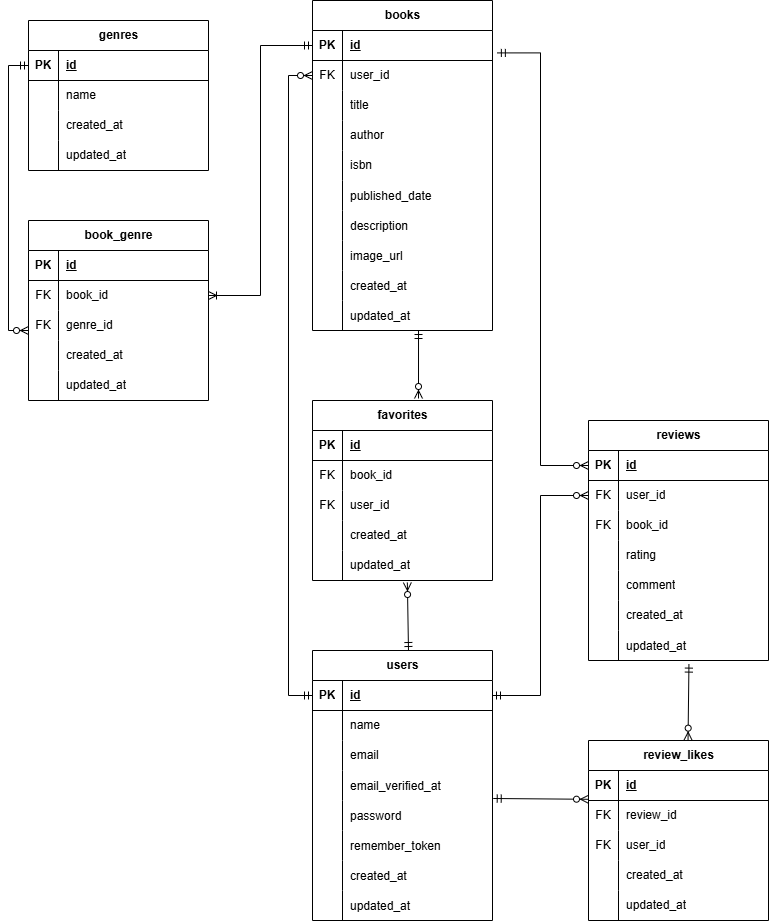
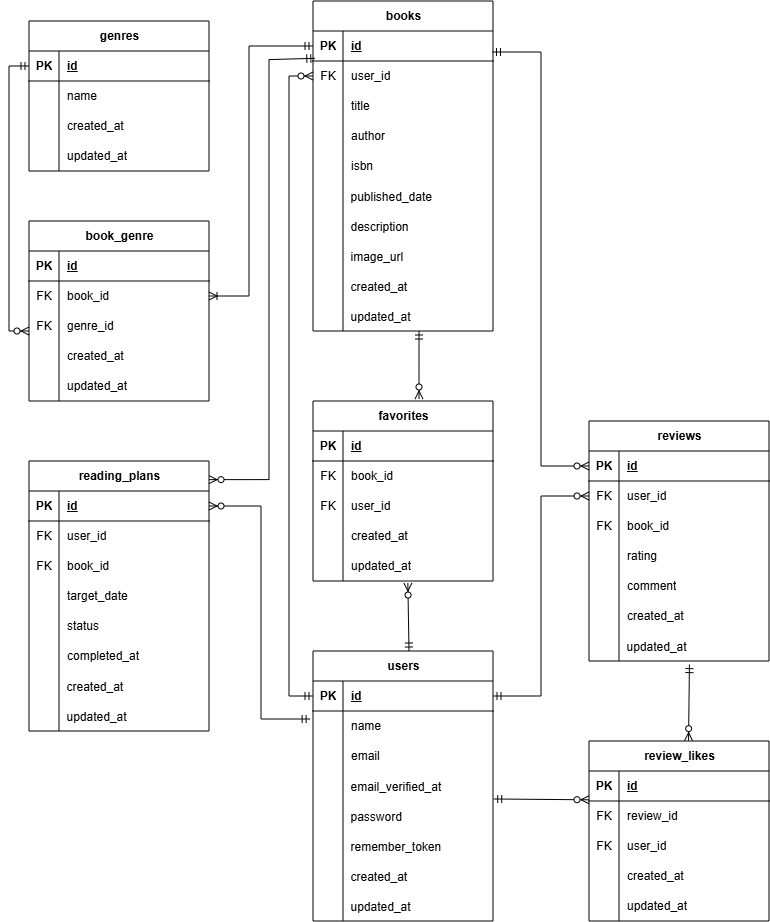
docs: READMEとER図を更新

diff --git a/README.md b/README.md
@@ -1,51 +1,200 @@
 # BookShelf 書籍レビューアプリ
 
+BookShelfは、ユーザーが書籍を登録・閲覧し、レビューや読書計画を管理できる書籍レビューアプリです。
+ジャンル分類、書籍のお気に入り登録、レビューへのいいね、ランキング表示、キーワード検索・ジャンル別絞り込み、ISBN検索による書籍情報の自動取得、読書レポート、リマインダー通知などの機能を備えています。
+また、外部アプリケーション向けに、Laravel Sanctumによる認証機能を備えたAPI（JSON）も提供しています。
+
 ## 作成者
+
 竹村 麻紀
 
-## 概要
-BookShelfは、ユーザーが書籍を登録・閲覧し、レビューを投稿できる書籍レビューアプリです。
-ジャンルによる分類、レビューへのいいね、ランキング表示などの機能を備えています。
-また、外部アプリケーション向けの公開API（JSON）も提供しています。
-
 ## 使用技術
+
 ### バックエンド
+
 - PHP 8.5
 - Laravel 10.x
-- Laravel Fortify
+- Laravel Fortify（認証）
+- Laravel Sanctum（認証）
 
 ### データベース
+
 - MySQL 8.4
 
 ### フロントエンド
+
 - Vite
 - Tailwind CSS ^3.4.0
 - @tailwindcss/forms
 - Alpine.js
 
+### 外部API
+
+- Google Books API
+
 ### 開発環境
+
 - Docker
 - Laravel Sail
 - phpMyAdmin
 
+## ER図
+
+![ER図](docs/er-diagram.png)
+
+## 開発環境URL
+
+- http://localhost
+
 ## 動作環境
+
 - Docker
 - Docker Compose
 > ※Windowsの場合はWSL2の利用を推奨します。
 
 ## 環境構築手順
+
 ### 1. リポジトリをクローン
+
+以下のコマンドで任意のディレクトリにリポジトリをクローンします。
 
 ```bash
 git clone https://github.com/maki-takemura/bookshelf-app.git
 cd bookshelf-app
 ```
 
-＜追記予定＞
+### 2. envファイルの準備
 
-## 開発環境URL
+`.env.example`をコピーして`.env`を作成します。
 
-- http://localhost
+```bash
+cp .env.example .env
+```
+
+`.env`ファイル内の以下のDB接続情報を確認・設定します。
+Sailを使用するため、以下のように変更してください。
+
+```bash
+DB_CONNECTION=mysql
+DB_HOST=mysql
+DB_PORT=3306
+DB_DATABASE=laravel
+DB_USERNAME=sail
+DB_PASSWORD=password
+```
+
+Google Books APIとの実通信を確認する場合は、Google Books APIキーを取得し、`.env`に以下の環境変数を設定してください。
+
+```bash
+GOOGLE_BOOKS_API_KEY=取得したAPIキー
+```
+※Google Books APIとの実通信を行わない場合、APIキーの設定は不要です。
+
+※APIキーの取得方法は[Google Books APIの公式ドキュメント](https://developers.google.com/books/docs/v1/using)を参照してください。
+
+### 3. Composer依存パッケージのインストール
+
+初回セットアップ時は`vendor`ディレクトリが存在しないため、以下のDockerコマンドで`composer install`を実行します。
+
+```bash
+docker run --rm \
+    -u "$(id -u):$(id -g)" \
+    -v "$(pwd):/var/www/html" \
+    -w /var/www/html \
+    composer:latest \
+    composer install --ignore-platform-reqs
+```
+
+### 4. Laravel Sailの起動
+
+以下のコマンドでDockerコンテナを起動します。
+
+```bash
+./vendor/bin/sail up -d
+```
+
+> ※以降の手順で`sail`コマンドを使用するため、以下のエイリアスを設定してください。
+
+- Bash（Linux）の場合:
+```bash
+echo "alias sail='[ -f sail ] && bash sail || bash vendor/bin/sail'" >> ~/.bashrc
+exec $SHELL
+```
+
+- Zsh（Mac）の場合:
+```bash
+echo "alias sail='[ -f sail ] && bash sail || bash vendor/bin/sail'" >> ~/.zshrc
+exec $SHELL
+```
+
+### 5. アプリケーションキーの作成
+
+以下のコマンドでアプリケーションキーを作成します。
+
+```bash
+sail artisan key:generate
+```
+
+### 6. データベースのマイグレーションと初期データ投入
+
+以下のコマンドでテーブルを作成し、ダミーデータを投入します。
+
+```bash
+sail artisan migrate:fresh --seed
+```
+
+#### マイグレーション実行時にデータベースのアクセスエラーが発生した場合
+
+既存のDockerボリュームに以前のデータベース設定が残っている場合、マイグレーション実行時に`Access denied`エラーが発生することがあります。
+
+その場合は、以下のコマンドを順に実行してください。
+
+> ※`sail down -v`を実行すると、本プロジェクトのDockerボリュームと保存されているデータベースのデータが削除されます。
+
+```bash
+sail down -v
+sail up -d
+```
+
+MySQLコンテナが起動するまで30秒程度待ってから、再度マイグレーションと初期データ投入を実行してください。
+
+```bash
+sail artisan migrate:fresh --seed
+```
+
+### 7. フロントエンド環境の準備
+
+以下のコマンドでフロントエンドの依存パッケージをインストールし、開発サーバーを起動します。
+
+```bash
+sail npm install
+sail npm run dev
+```
+
+※`npm run dev`は開発中起動したままにする必要があります。別ターミナルで実行してください。
+
+### 8. アプリケーションへのアクセス
+
+ブラウザで http://localhost にアクセスします。
+
+### 9. テストユーザーでのログイン
+
+Seederにより、動作確認用のユーザーが作成されます。
+
+| 名前 | メールアドレス | パスワード |
+| --- | --- | --- |
+| 山田太郎 | `yamada@example.com` | `password` |
+
+ブラウザで http://localhost/login にアクセスし、上記の情報でログインしてください。
+
+### 10. Google Books APIとの実通信確認
+
+Google Books APIキーを設定した場合は、以下の手順で実通信を確認できます。
+
+1. アプリケーションを起動する
+2. ISBN検索画面を開く
+3. 存在するISBN（例：`9784297132347`）を入力する
+4. Google Books APIから取得した書籍情報が表示されることを確認する
 
 ## テスト実行手順
 本プロジェクトではPHPUnitを使用してテストを実施します。
@@ -66,15 +215,82 @@ sail artisan test
 sail artisan test --coverage
 ```
 
-## ER図
+### Google Books APIを利用するテストについて
 
-![ER図](docs/er-diagram.png)
+Google Books API連携のFeatureテストでは、`Http::fake()`を利用して外部APIとの通信をモック化しています。
+
+そのため、Featureテストの実行にGoogle Books APIキーの設定は不要です。
+
+## 定期実行処理の確認
+
+読書計画の期限切れ更新およびリマインダー通知は、毎日20時に実行されるようスケジュールされています。
+
+### 通知スケジュールの登録確認
+
+以下のコマンドで、スケジュールの登録内容を確認できます。
+
+```bash
+sail artisan schedule:list
+```
+
+### 期限切れ更新・リマインダー通知の手動実行
+
+以下のコマンドで、期限切れ更新およびリマインダー通知の処理を手動実行できます。
+
+```bash
+sail artisan app:process-reading-plan-reminders
+```
+
+Seederには通知対象となる読書計画が含まれています。手動実行後、山田太郎のアカウントでログインすると、通知一覧画面で作成された通知を確認できます。
+
+### 任意の時間を指定した通知の動作確認
+
+通知を任意の時間に実行して確認する場合は、`app/Console/Kernel.php`の通知スケジュール実行時刻を現在時刻より後の任意の時刻に変更します。
+
+続けて、以下のコマンドを実行してスケジューラーを起動します。
+
+```bash
+sail artisan schedule:work
+```
+
+指定した時刻になると、読書計画の期限切れ更新およびリマインダー通知の処理が実行されます。実行後、山田太郎のアカウントでログインし、通知一覧画面で通知が作成されていることを確認してください。
+
+動作確認が完了したら、Ctrl + Cでスケジューラーを終了し、通知スケジュールの実行時刻を毎日20時の設定に戻してください。
 
 ## 機能一覧
 
-後日追加予定
+- ユーザー認証（登録、ログイン、ログアウト）
+- 書籍管理（登録・一覧表示・詳細表示・更新・削除）
+- 書籍のキーワード検索・ジャンル別絞り込み
+- ISBN検索による書籍情報取得
+- ジャンル管理（追加・更新・削除）
+- レビュー管理（投稿・更新・削除）
+- レビューへのいいね
+- 書籍のお気に入り登録・解除・一覧表示
+- 書籍ランキング表示
+- マイ読書レポート表示
+- 読書計画管理（登録・一覧表示・更新・削除）
+- 読書計画のステータス管理・期限切れ自動更新
+- 読書計画のリマインダー通知
+- API認証（ログイン、ログアウト）
+- APIによる書籍管理（登録・一覧取得・単体取得・更新・削除）
+- APIによる書籍検索・絞り込み
 
 ## APIエンドポイント一覧
 
-後日追加予定
+| HTTPメソッド | URL | 説明 | 認証 |
+|---|---|---|---|
+| GET | `/api/v1/books` | 書籍一覧を取得する | 不要 |
+| GET | `/api/v1/books/{book}` | 書籍詳細を取得する | 不要 |
+| POST | `/api/v1/books` | 書籍を新規登録する | Sanctum必須 |
+| PUT | `/api/v1/books/{book}` | 書籍を更新する | Sanctum必須・所有者のみ |
+| DELETE | `/api/v1/books/{book}` | 書籍を削除する | Sanctum必須・所有者のみ |
+| POST | `/api/v1/login` | ログインしてBearerトークンを発行する | 不要 |
+| POST | `/api/v1/logout` | 使用中のBearerトークンを削除する | Sanctum必須 |
 
+## 補足
+
+### Bladeとの差異について
+
+- 書籍検索のソートについて、Bladeでは「新しい順」が `newest` となっていますが、要件に合わせて `latest` で実装しています。
+- 書籍検索のバリデーションエラーメッセージの表示領域がないため、フラッシュメッセージで表示させるよう実装しています。
